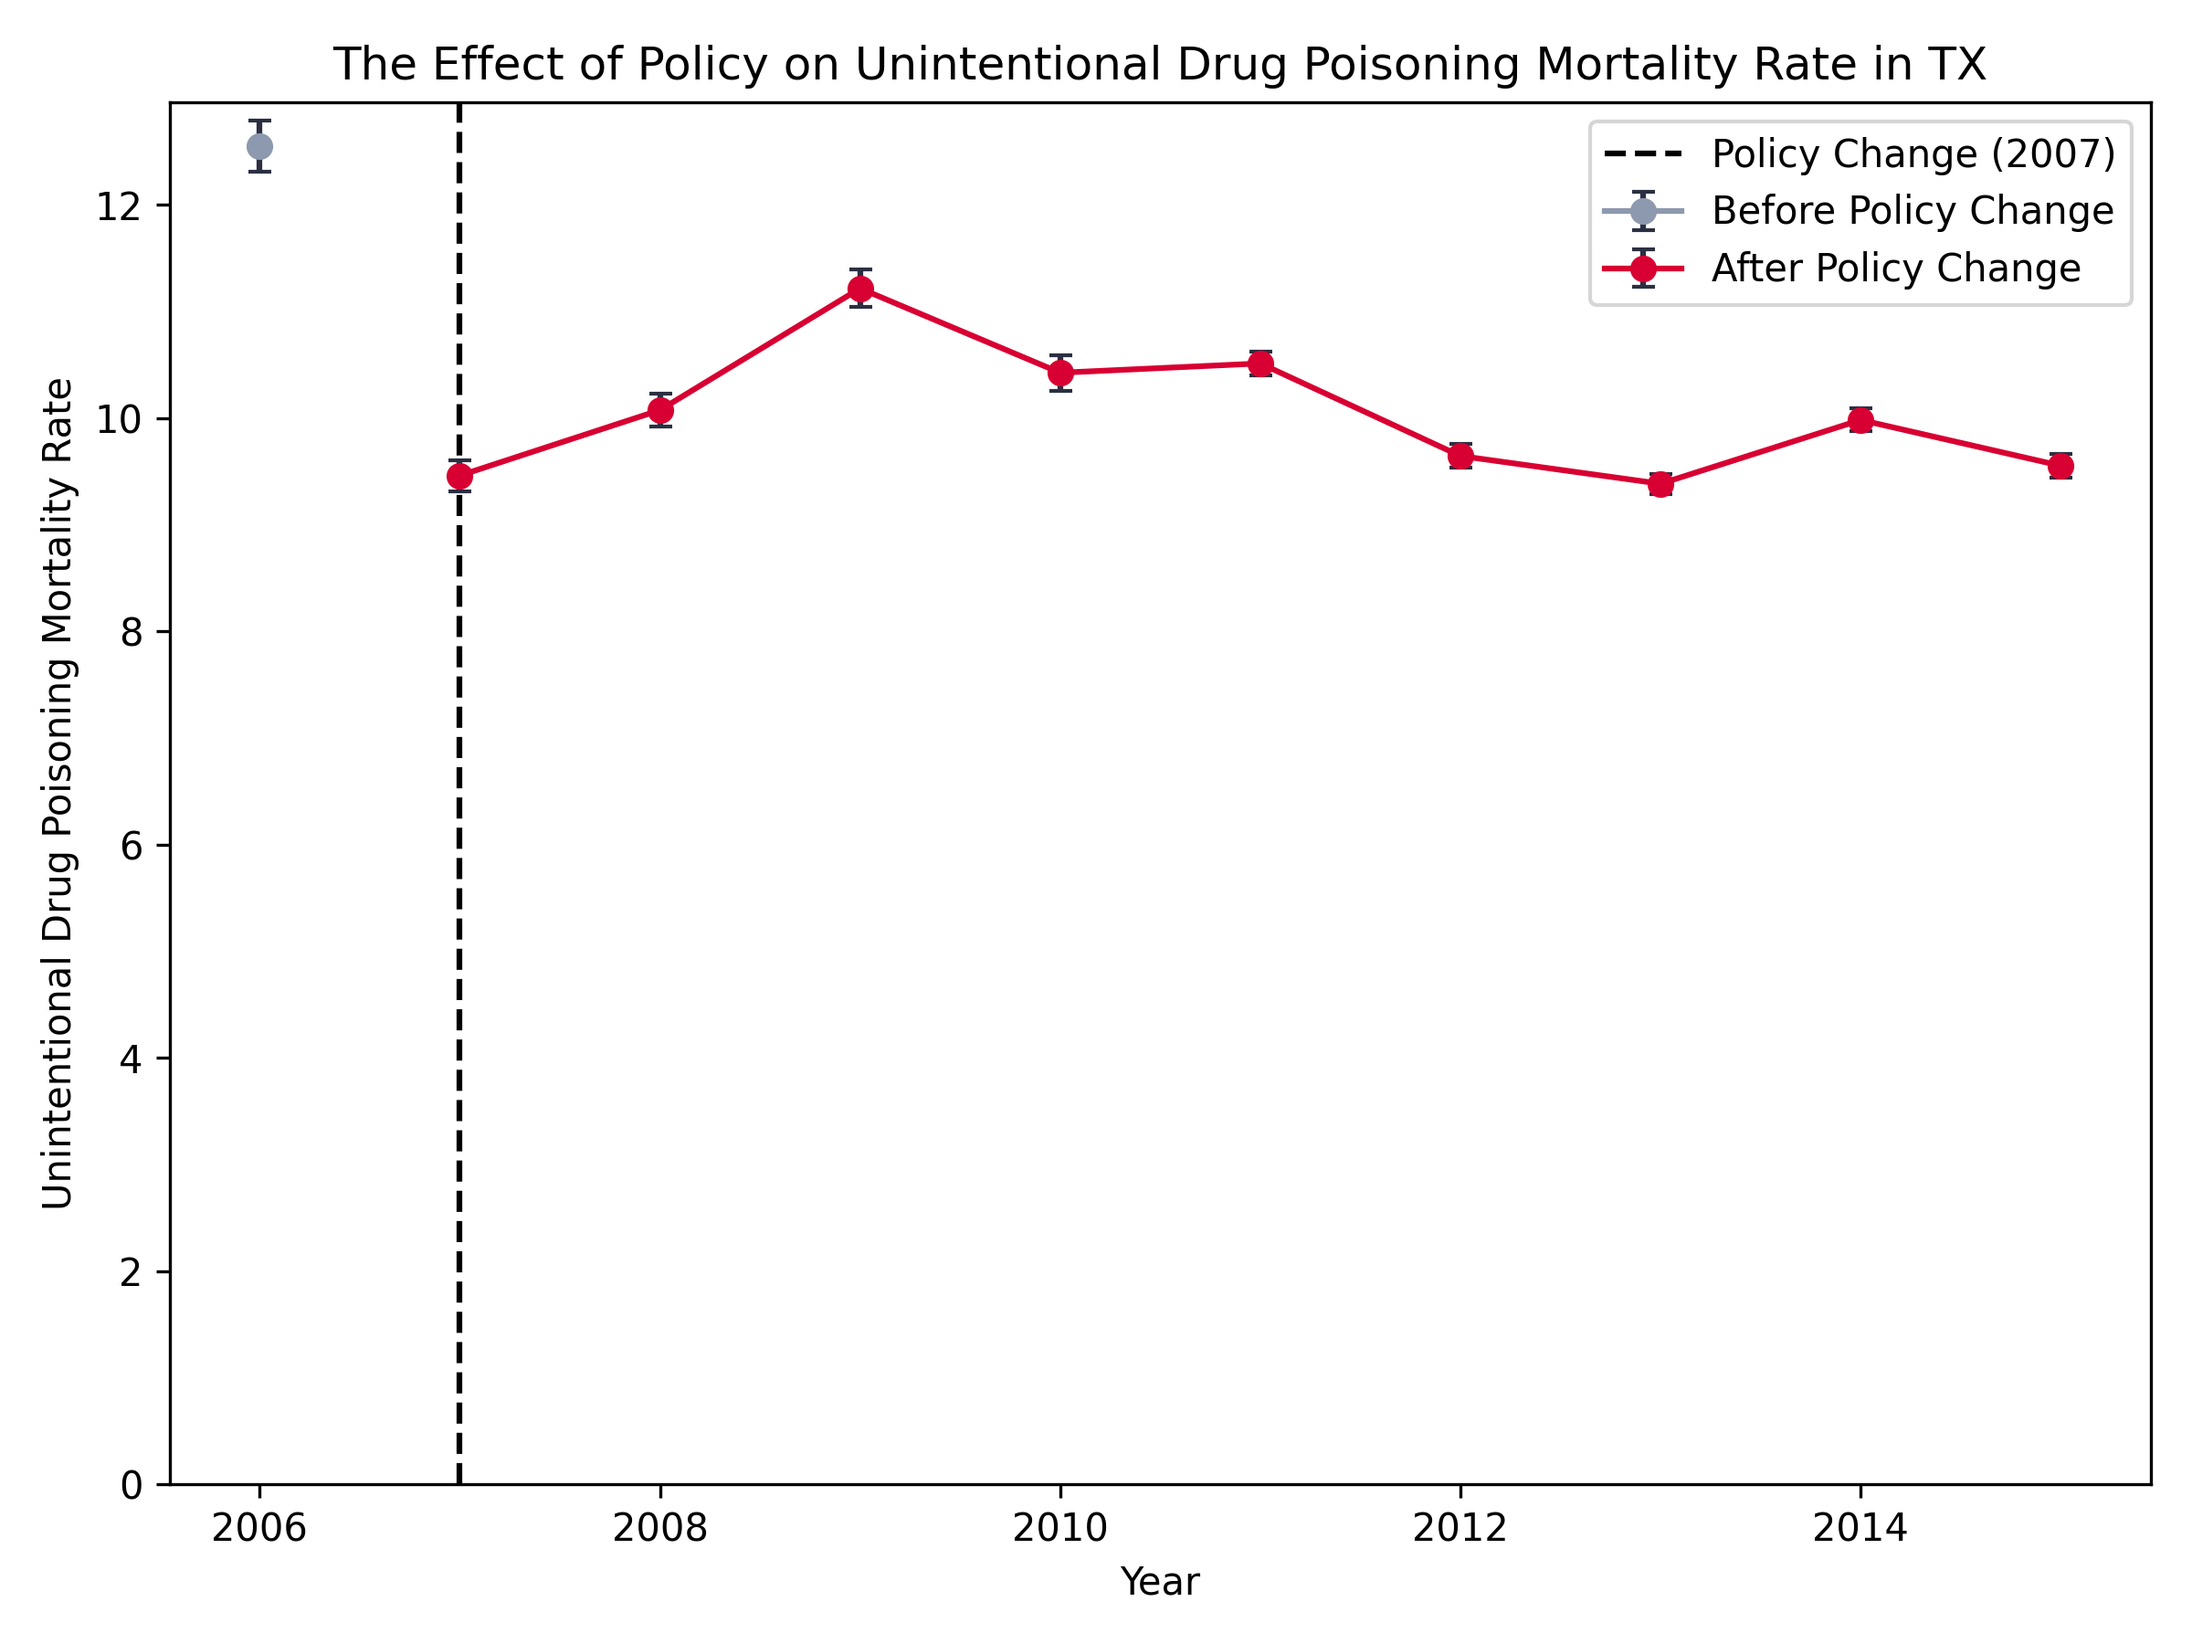
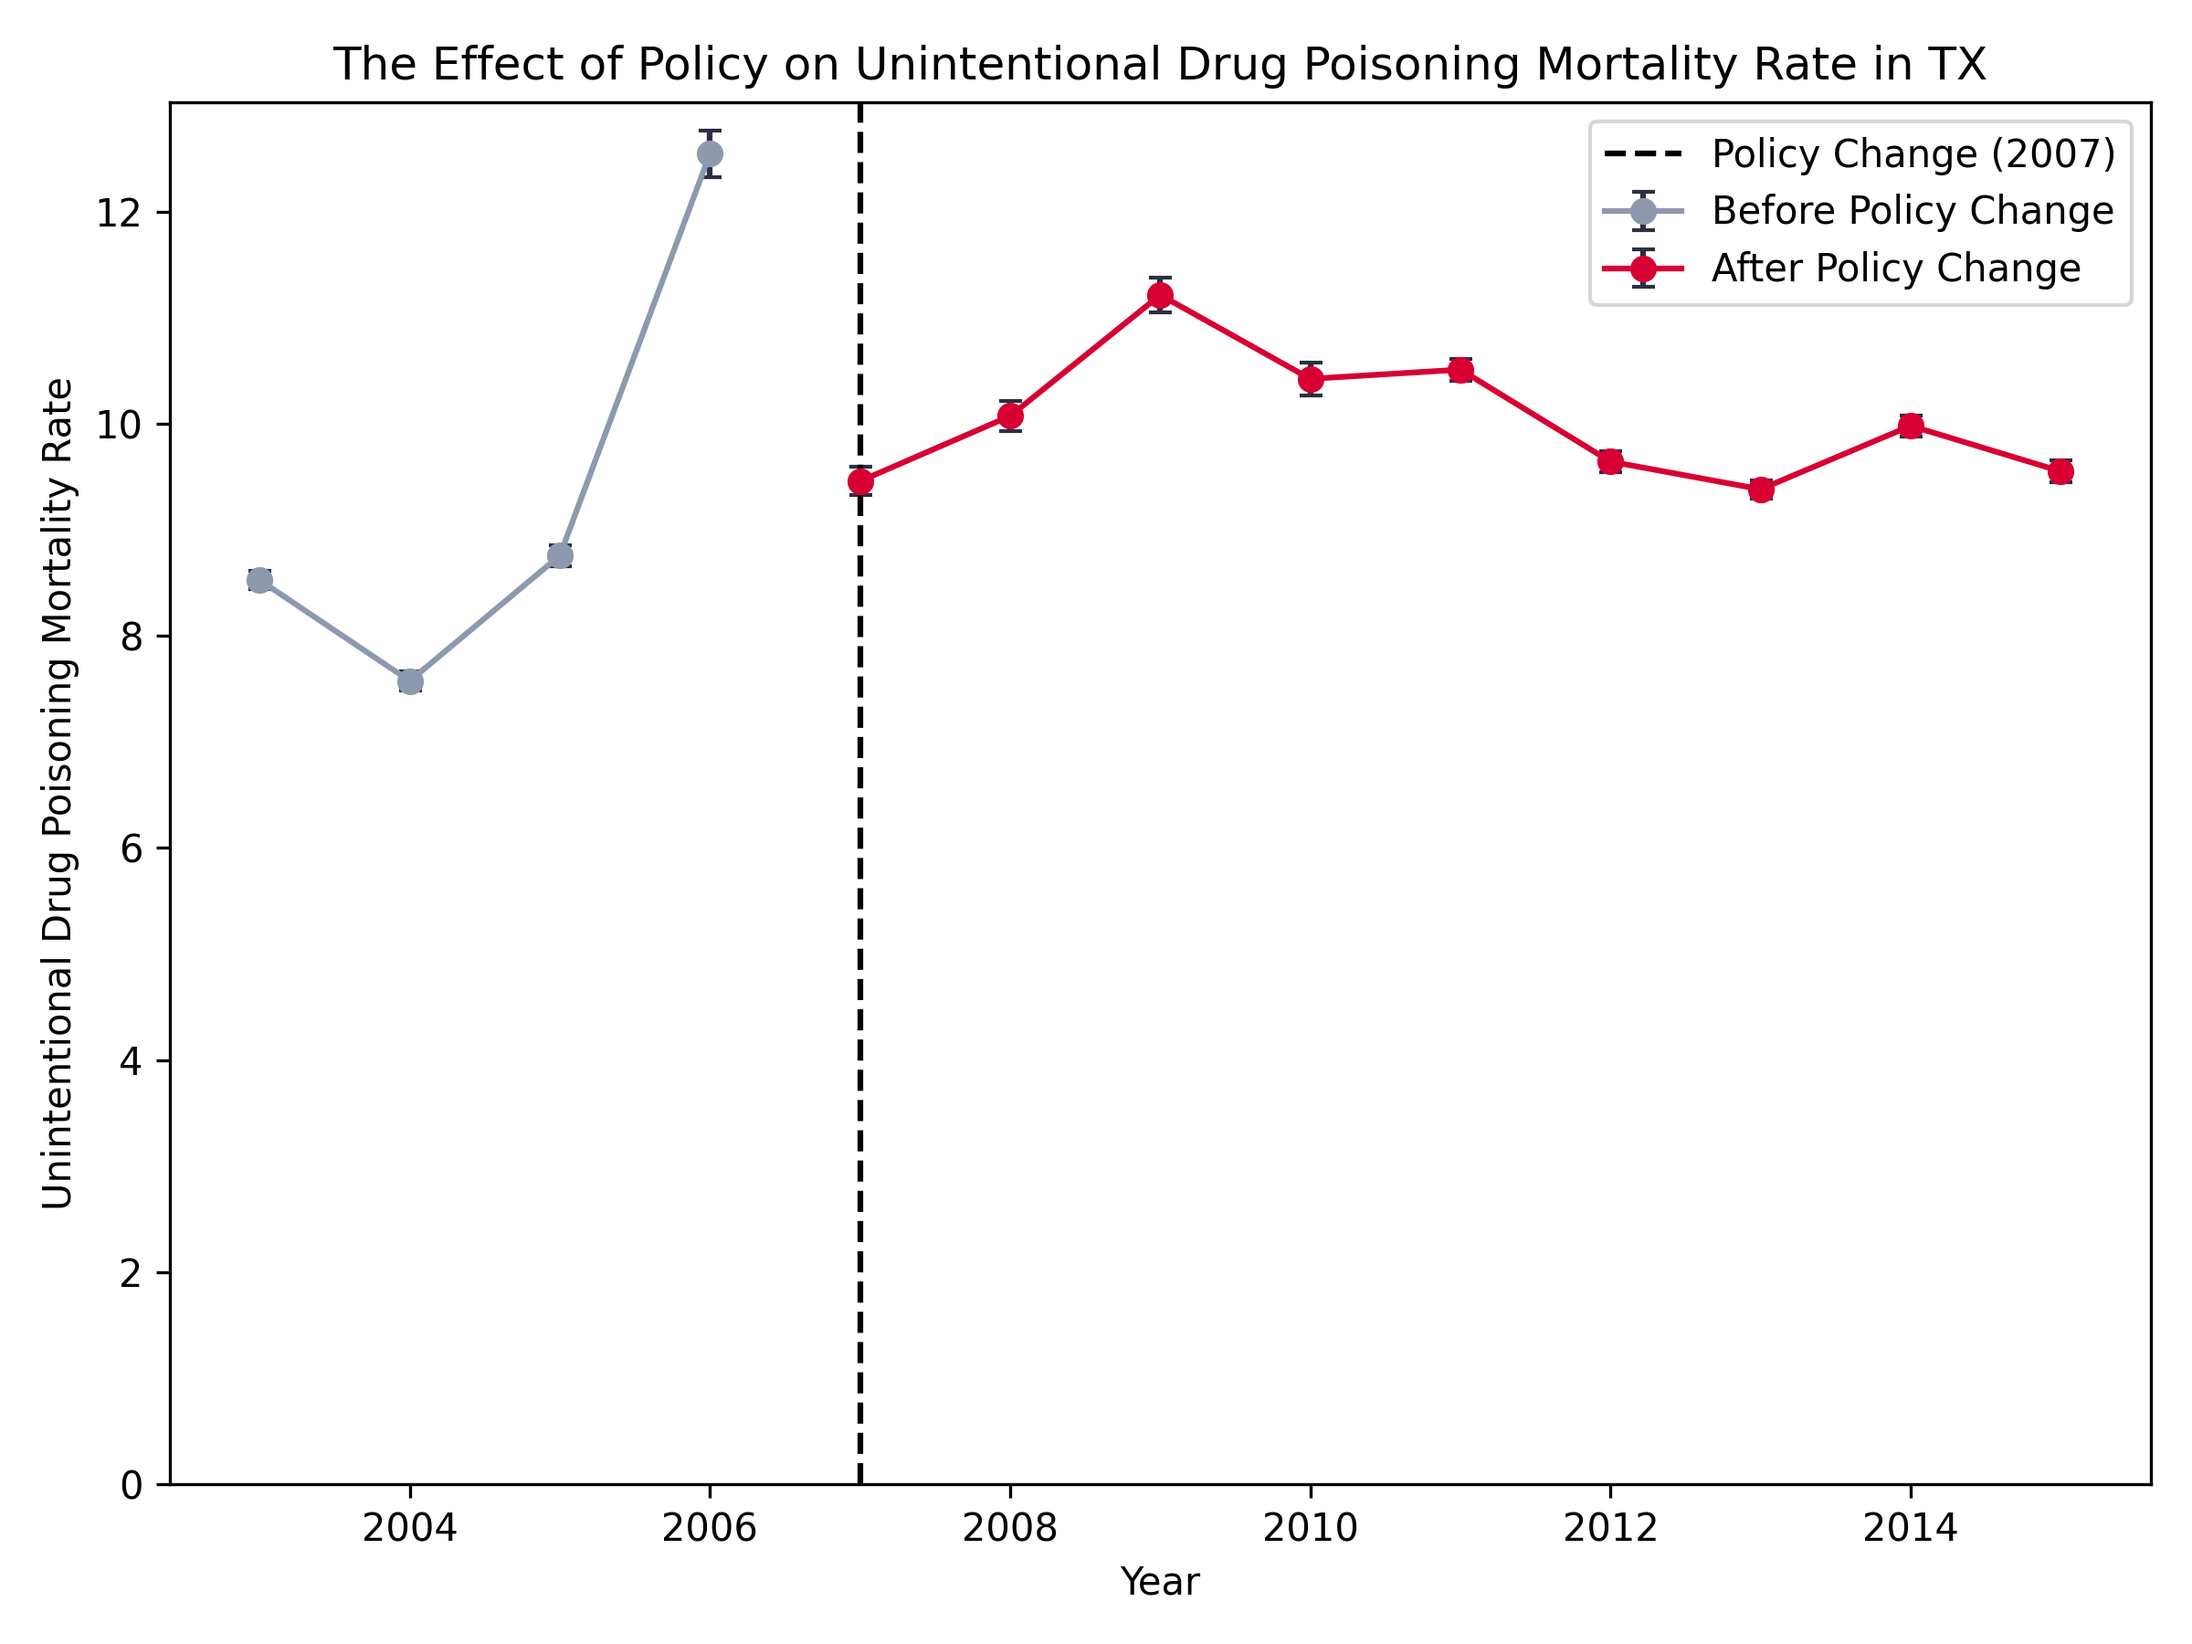
updates

diff --git a/10_code/70_analyze_data_pre_post_comparison.py b/10_code/70_analyze_data_pre_post_comparison.py
@@ -5,9 +5,7 @@ import os
 ######################### Pre-Post Model Comparison on MME (FL, WA) #########################
 
 # Switch to the main branch to access the data file
-os.system(
-    "git checkout main"
-)  
+os.system("git checkout main")
 
 # Load the data from the main branch us_population_vitalstatistics_opioids_yearly.csv file
 rawdata = pd.read_csv(
@@ -18,10 +16,7 @@ rawdata = pd.read_csv(
 os.system("git checkout pre_post_comparison")
 
 # Filter rows where 'merge_population_vitalstatistics' and 'merge_population_vitalstatistics_opioids' are both True
-data = rawdata[
-    (rawdata["merge_population_vitalstatistics"] == "both")
-    & (rawdata["merge_population_vitalstatistics_opioids"] == "both")
-]
+data = rawdata[rawdata["merge_population_vitalstatistics_opioids"] == "both"]
 
 # Select the relevant columns
 data = data[["year", "state_name", "mme_per_capita"]]
@@ -48,46 +43,54 @@ line_color_before = "#8D99AE"
 line_color_after = "#D80032"
 
 # Separate the data into before and after the policy change
-before_policy_change = state_year_avg_fl[state_year_avg_fl["year"] < policy_change_year_fl]
-after_policy_change = state_year_avg_fl[state_year_avg_fl["year"] >= policy_change_year_fl]
+before_policy_change = state_year_avg_fl[
+    state_year_avg_fl["year"] < policy_change_year_fl
+]
+after_policy_change = state_year_avg_fl[
+    state_year_avg_fl["year"] >= policy_change_year_fl
+]
 
 # Plot the mean with error bars for each period using the 'year' column
 ax_fl.errorbar(
     before_policy_change["year"],
     before_policy_change["mean"],
     yerr=before_policy_change["sem"],
-    fmt='o-',  # 'o' for circular markers, '-' for a solid line
+    fmt="o-",  # 'o' for circular markers, '-' for a solid line
     color=line_color_before,
     ecolor=error_bar_color,
     capsize=3,  # Set the size of the caps on the error bars
-    label='Before Policy Change',
+    label="Before Policy Change",
 )
 ax_fl.errorbar(
     after_policy_change["year"],
     after_policy_change["mean"],
     yerr=after_policy_change["sem"],
-    fmt='o-',  # 'o' for circular markers, '-' for a solid line
+    fmt="o-",  # 'o' for circular markers, '-' for a solid line
     color=line_color_after,
     ecolor=error_bar_color,
     capsize=3,  # Set the size of the caps on the error bars
-    label='After Policy Change',
+    label="After Policy Change",
 )
 
 # Set the x-axis to show every two years
-ax_fl.set_xticks(range(2006, 2016, 2))
+ax_fl.set_xticks(range(2006, 2020, 2))
 # Set the x-axis labels to show the actual years
-ax_fl.set_xticklabels(range(2006, 2016, 2))
+ax_fl.set_xticklabels(range(2006, 2020, 2))
 
 # Set y-axis to start from 0
 ax_fl.set_ylim(bottom=0)
 
 # Draw a vertical line for the policy change year
-ax_fl.axvline(x=policy_change_year_fl, color='black', linestyle='--', label='Policy Change (2010)')
+ax_fl.axvline(
+    x=policy_change_year_fl, color="black", linestyle="--", label="Policy Change (2010)"
+)
 
 # Additional plot formatting
-ax_fl.set_title('The Effect of Policy on Morphine Milligram Equivalent Per Capita in FL')
-ax_fl.set_xlabel('Year')
-ax_fl.set_ylabel('Morphine Milligram Equivalent Per Capita')
+ax_fl.set_title(
+    "The Effect of Policy on Morphine Milligram Equivalent Per Capita in FL"
+)
+ax_fl.set_xlabel("Year")
+ax_fl.set_ylabel("Morphine Milligram Equivalent Per Capita")
 ax_fl.legend()
 
 # Define the directory to save the graphs
@@ -95,7 +98,7 @@ result_directory = "../30_results"
 os.makedirs(result_directory, exist_ok=True)
 
 # Save the Florida (FL) graph as a PNG file in the result directory
-fl_graph_filename = os.path.join(result_directory, "FL_MEE_Change_Avg.png")
+fl_graph_filename = os.path.join(result_directory, "FL_MME_Change_Avg.png")
 plt.tight_layout()
 plt.savefig(fl_graph_filename, dpi=300)
 plt.close()  # Close the figure to avoid display
@@ -116,8 +119,12 @@ line_color_before = "#8D99AE"
 line_color_after = "#D80032"
 
 # Separate the data into before and after the policy change
-before_policy_change_wa = state_year_avg_wa[state_year_avg_wa["year"] < policy_change_year_wa]
-after_policy_change_wa = state_year_avg_wa[state_year_avg_wa["year"] >= policy_change_year_wa]
+before_policy_change_wa = state_year_avg_wa[
+    state_year_avg_wa["year"] < policy_change_year_wa
+]
+after_policy_change_wa = state_year_avg_wa[
+    state_year_avg_wa["year"] >= policy_change_year_wa
+]
 
 # Plot the mean with error bars for each period using the 'year' column
 ax_wa.errorbar(
@@ -142,24 +149,28 @@ ax_wa.errorbar(
 )
 
 # Set the x-axis to show every two years
-ax_wa.set_xticks(range(2006, 2016, 2))
+ax_wa.set_xticks(range(2006, 2020, 2))
 # Set the x-axis labels to show the actual years
-ax_wa.set_xticklabels(range(2006, 2016, 2))
+ax_wa.set_xticklabels(range(2006, 2020, 2))
 
 # Set y-axis to start from 0
 ax_wa.set_ylim(bottom=0)
 
 # Draw a vertical line for the policy change year
-ax_wa.axvline(x=policy_change_year_wa, color='black', linestyle='--', label='Policy Change (2012)')
+ax_wa.axvline(
+    x=policy_change_year_wa, color="black", linestyle="--", label="Policy Change (2012)"
+)
 
 # Additional plot formatting
-ax_wa.set_title('The Effect of Policy on Morphine Milligram Equivalent Per Capita in WA')
-ax_wa.set_xlabel('Year')
-ax_wa.set_ylabel('Morphine Milligram Equivalent Per Capita')
+ax_wa.set_title(
+    "The Effect of Policy on Morphine Milligram Equivalent Per Capita in WA"
+)
+ax_wa.set_xlabel("Year")
+ax_wa.set_ylabel("Morphine Milligram Equivalent Per Capita")
 ax_wa.legend()
 
 # Save the Washington (WA) graph as a PNG file in the result directory
-wa_graph_filename = os.path.join(result_directory, "WA_MEE_Change_Avg.png")
+wa_graph_filename = os.path.join(result_directory, "WA_MME_Change_Avg.png")
 plt.tight_layout()
 plt.savefig(wa_graph_filename, dpi=300)
 plt.close()  # Close the figure to avoid display
@@ -172,24 +183,25 @@ import pandas as pd
 import matplotlib.pyplot as plt
 import seaborn as sns
 
-os.system(
-    "git checkout main"
-)  
+os.system("git checkout main")
 
-rawdata = pd.read_csv("../20_intermediate_files/us_population_vitalstatistics_opioids_yearly.csv")
+rawdata = pd.read_csv(
+    "../20_intermediate_files/us_population_vitalstatistics_opioids_yearly.csv"
+)
 
 # Filter rows where both merge flags are True
-data = rawdata[
-    (rawdata["merge_population_vitalstatistics"] == "both") &
-    (rawdata["merge_population_vitalstatistics_opioids"] == "both")
-]
+data = rawdata[rawdata["merge_population_vitalstatistics"] == "both"]
 
 # Select the relevant columns
-data = data[["year", "state_name", "filled_mortality_rate_unintentional_drug_poisoning"]]
+data = data[
+    ["year", "state_name", "filled_mortality_rate_unintentional_drug_poisoning"]
+]
 
 # Group by year and state to calculate the mean and standard error
 state_year_avg = (
-    data.groupby(["year", "state_name"])["filled_mortality_rate_unintentional_drug_poisoning"]
+    data.groupby(["year", "state_name"])[
+        "filled_mortality_rate_unintentional_drug_poisoning"
+    ]
     .agg(["mean", "sem"])
     .reset_index()
 )
@@ -207,6 +219,7 @@ line_color_after = "#D80032"
 # Define the directory to save the graphs
 result_directory = "../30_results"  # Replace with your actual path
 os.makedirs(result_directory, exist_ok=True)
+
 
 # Create a function to plot for each state
 def plot_state(state_name, policy_change_year, state_label):
@@ -237,18 +250,28 @@ def plot_state(state_name, policy_change_year, state_label):
         label="After Policy Change",
     )
 
-    ax.set_xticks(range(min(state_data["year"]), max(state_data["year"]) + 1, 2))
+    ax.set_xticks(range(2004, max(state_data["year"]) + 1, 2))
     ax.set_ylim(bottom=0)
-    ax.axvline(x=policy_change_year, color='black', linestyle='--', label=f'Policy Change ({policy_change_year})')
-    ax.set_title(f"The Effect of Policy on Unintentional Drug Poisoning Mortality Rate in {state_label}")
+    ax.axvline(
+        x=policy_change_year,
+        color="black",
+        linestyle="--",
+        label=f"Policy Change ({policy_change_year})",
+    )
+    ax.set_title(
+        f"The Effect of Policy on Unintentional Drug Poisoning Mortality Rate in {state_label}"
+    )
     ax.set_xlabel("Year")
     ax.set_ylabel("Unintentional Drug Poisoning Mortality Rate")
     ax.legend()
 
-    graph_filename = os.path.join(result_directory, f"{state_label}_MortalityRate_Change_Avg.png")
+    graph_filename = os.path.join(
+        result_directory, f"{state_label}_MortalityRate_Change_Avg.png"
+    )
     plt.tight_layout()
     plt.savefig(graph_filename, dpi=300)
     plt.close()
+
 
 # Plot for each state
 plot_state("FL", policy_change_year_fl, "FL")
@@ -359,7 +382,7 @@ result_directory = "../30_results"
 os.makedirs(result_directory, exist_ok=True)
 
 # Save the Texas (TX) graph as a PNG file in the result directory
-tx_graph_filename = os.path.join(result_directory, "TX_MEE_Change_Avg.png")
+tx_graph_filename = os.path.join(result_directory, "TX_MME_Change_Avg.png")
 plt.tight_layout()
 plt.savefig(tx_graph_filename, dpi=300)
 plt.show()  # Display the figure
